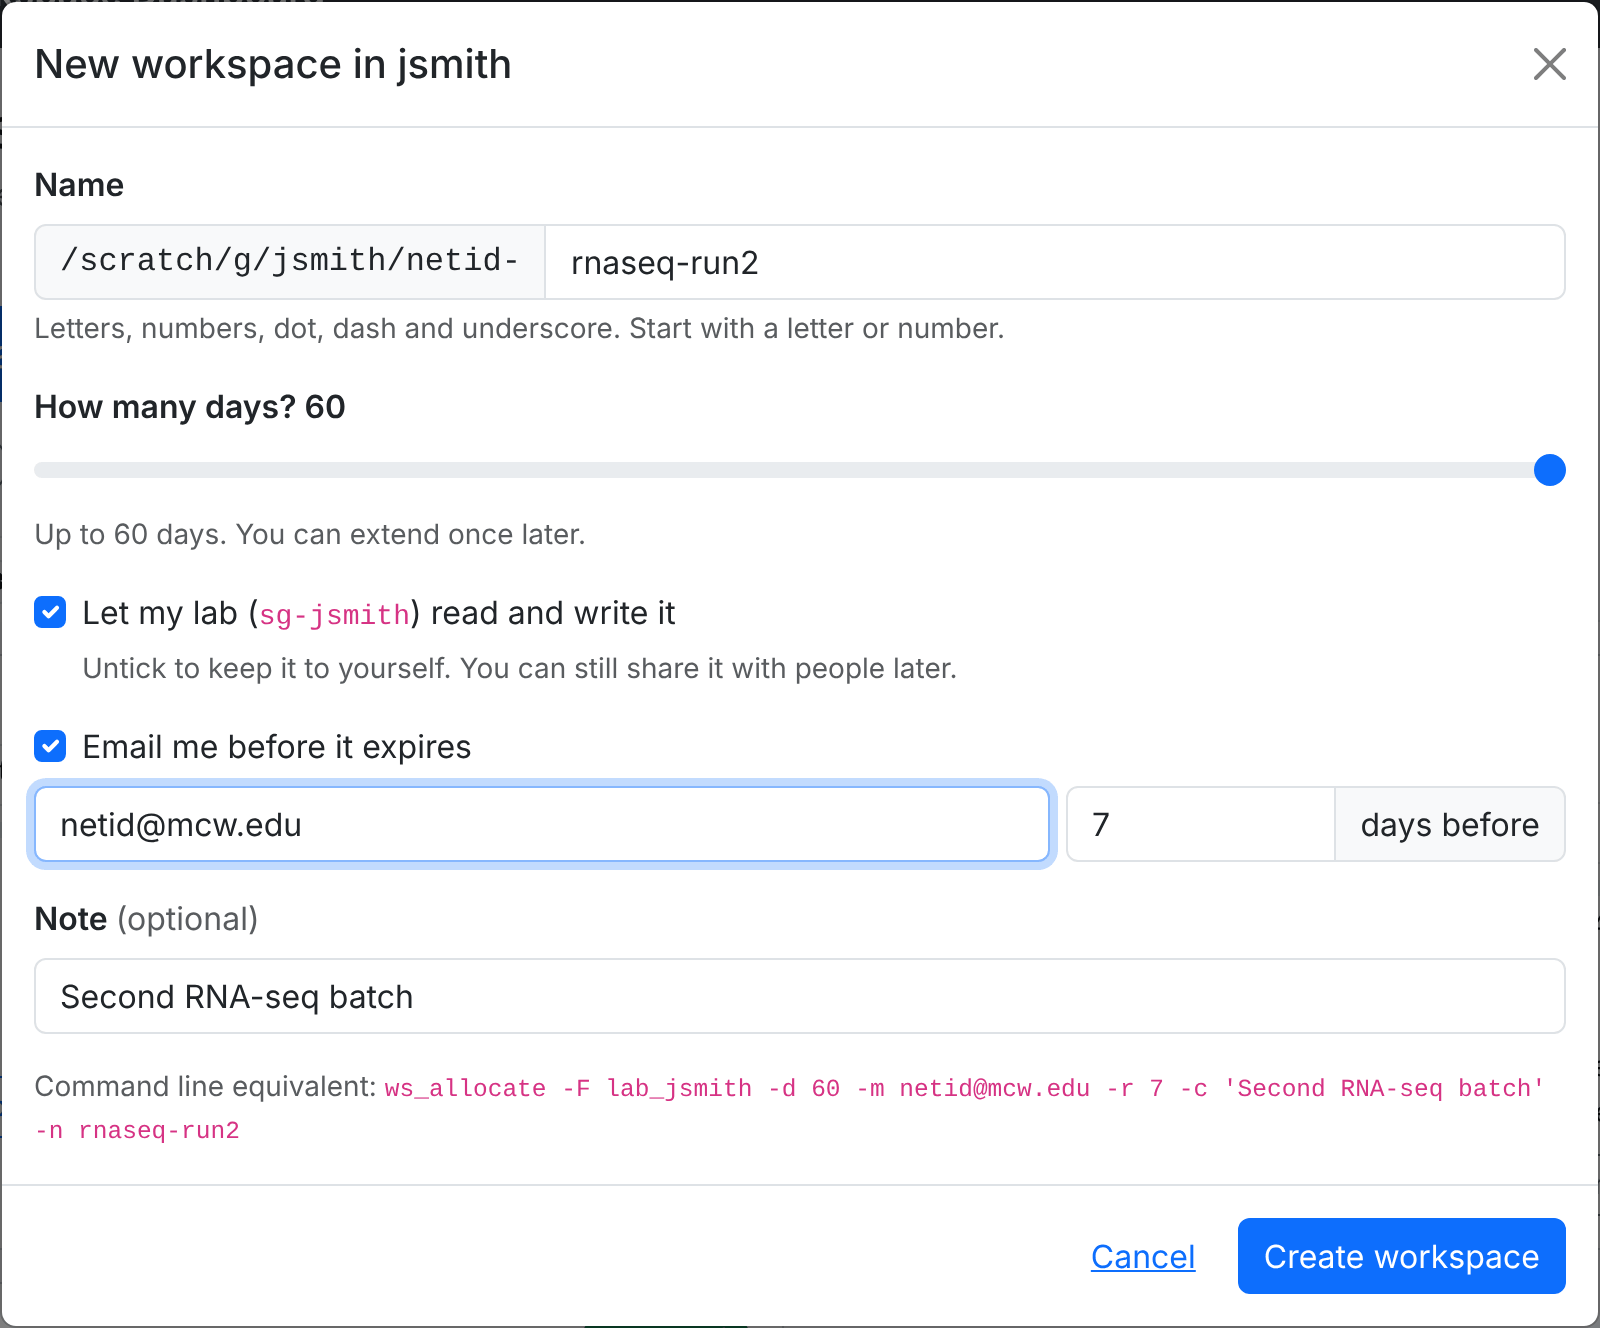
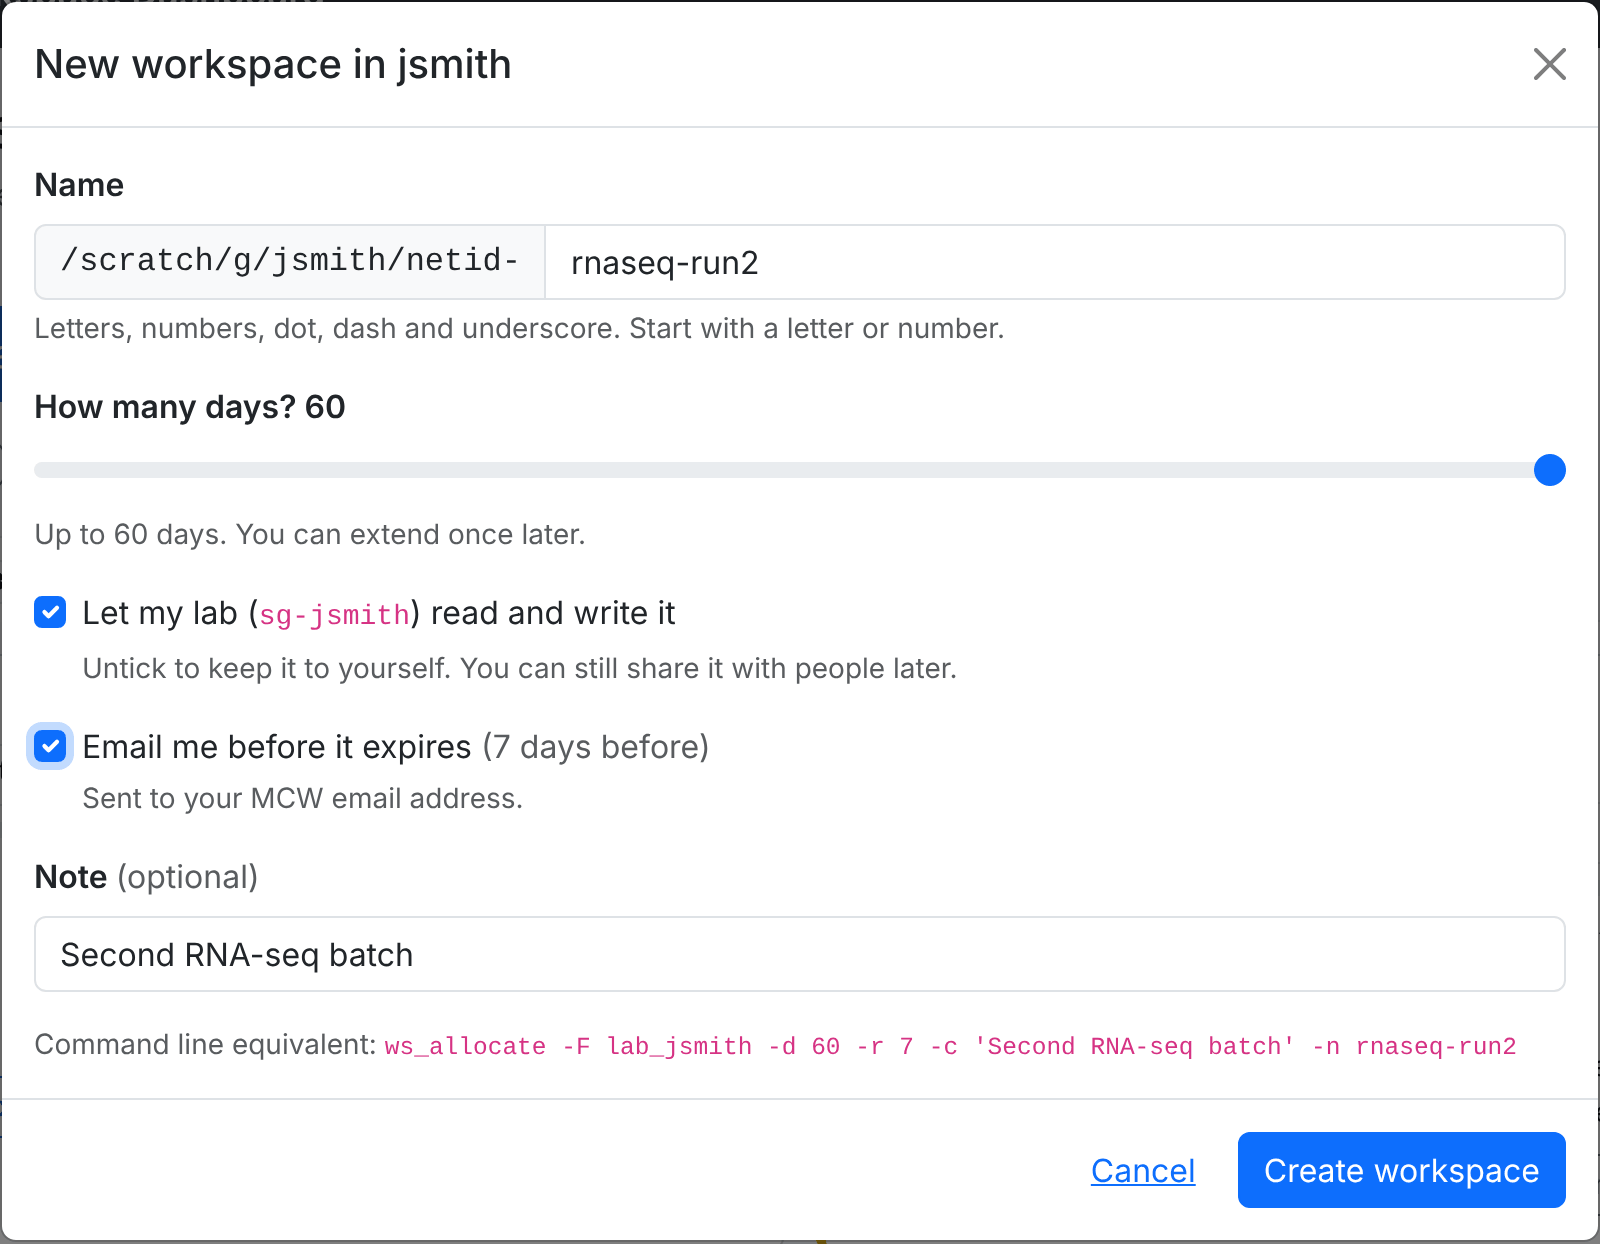
Workspace Dashboard guide: new email reminder checkbox, nightly reminders
Dashboard PR 7: the New workspace form has a single "Email me before it
expires" checkbox, sent to the user's MCW address (no address or days
fields). Reminders arrive every night from that point until expiry
(upstream behavior, Brian 2026-11-26). New screenshot with demo names.

Claude-Session: https://claude.ai/code/session_017F2mGmLVx9LSUqgnuiyANM

diff --git a/docs/storage/workspace-dashboard.md b/docs/storage/workspace-dashboard.md
@@ -55,7 +55,7 @@ The buttons on the card:
 2. Type a **Name**, such as `rnaseq-run2`. The full path is shown to the left of the box. Use letters, numbers, dots, dashes, and underscores.
 3. Choose **How many days**, up to 60.
 4. Leave **Let my lab read and write it** ticked to share it with your lab, which is the usual choice. Untick it to keep the workspace private. You can still share a private workspace with people later.
-5. Optional: tick **Email me before it expires**, enter your email address, and choose how many days before. RCC does not send reminders unless you ask for one here.
+5. Optional: tick **Email me before it expires**. Starting the number of days shown next to the box (usually 7) before the workspace expires, you get a reminder at your MCW email address every night until it expires. RCC does not send reminders unless you tick this box.
 6. Optional: add a **Note** to remind you what the workspace is for. It is shown on the card.
 7. Click **Create workspace**.
 

diff --git a/docs/storage/workspaces.md b/docs/storage/workspaces.md
@@ -81,7 +81,7 @@ RCC does not send expiration reminders by default. To get an email before your w
 ws_allocate -r 7 -m username@mcw.edu myproject
 ```
 
-This example sends a reminder 7 days before the workspace expires.
+This example starts reminders 7 days before the workspace expires. From then on, a reminder is sent every night until the workspace expires or you extend it.
 
 !!! warning "You cannot add a reminder later without using your extension"
     Reminders can only be set when you create a workspace, or when you extend it. Adding or changing a reminder on an existing workspace counts as your one extension. If you want to keep your extension, set the reminder when you create the workspace.
